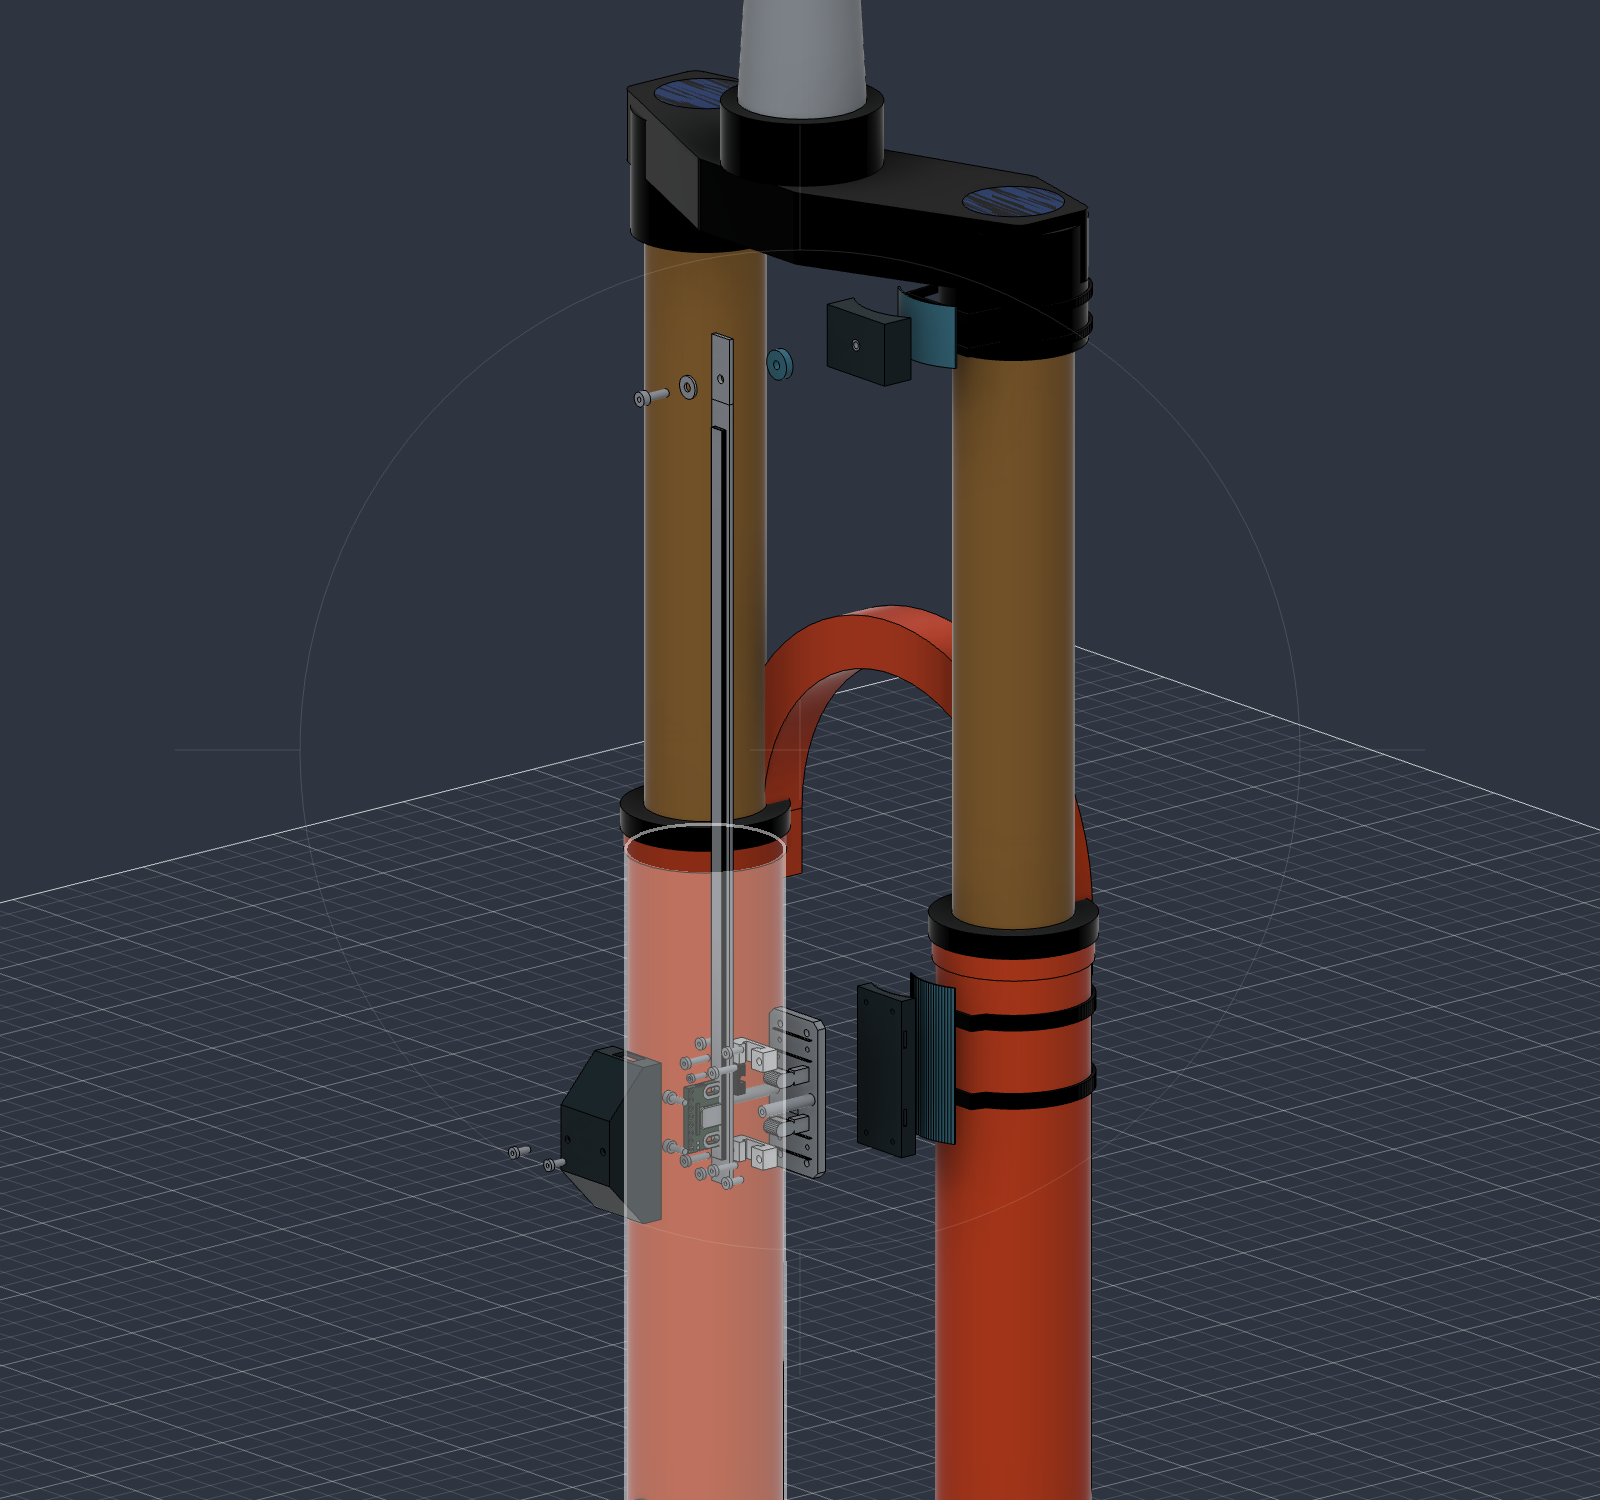
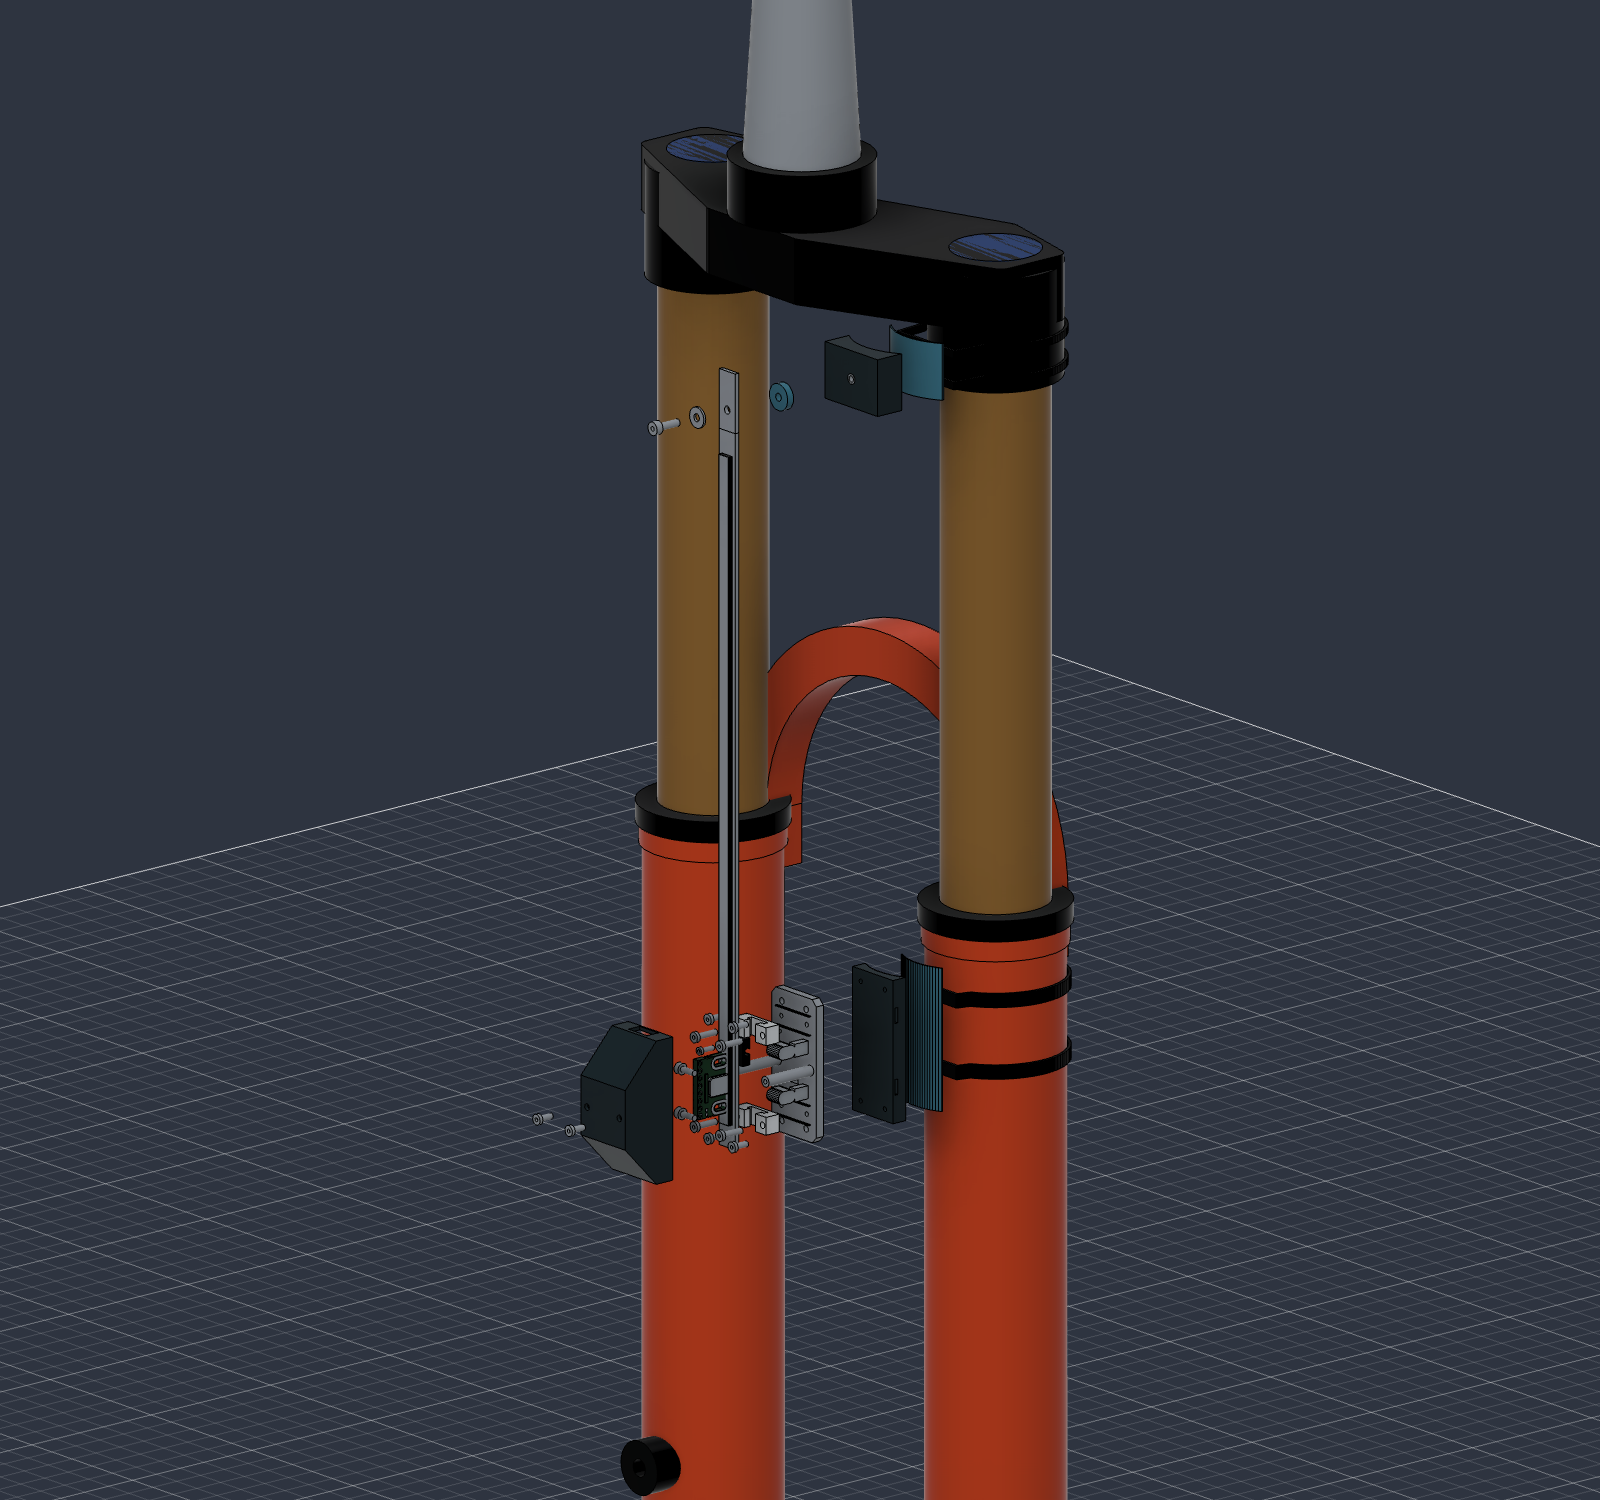
Use a clean exploded telemetry preview in README

Changed region(s): [[0.0, 0.0, 1.0, 1.0], [0.1875, 0.9813, 0.25, 1.0]]

diff --git a/README.md b/README.md
@@ -21,9 +21,9 @@ A mountain bike setup journal for iOS and Android. Save bike settings, compare s
 
 ## Suspension telemetry
 
-Magnetic travel sensors for forks and shocks, designed to record suspension movement alongside your setups. Below is the current fork-mounted design.
+Magnetic travel sensors for forks and shocks, designed to record suspension movement alongside your setups. Below is an exploded view of the current fork-mounted design.
 
-<img src="hardware/telemetry/previews/Rear_fork_overview.png" alt="Fusion model of the travel sensor mounted behind a fork leg" width="480">
+<img src="hardware/telemetry/previews/Rear_mounts_exploded.png" alt="Exploded Fusion view of the travel sensor and its mounts behind a fork leg" width="640">
 
 *Work in progress: hardware prototype; app integration planned.*
 
